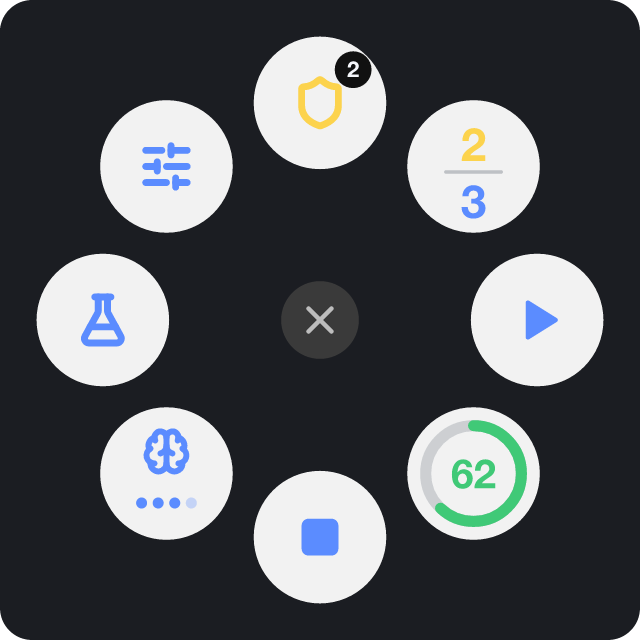
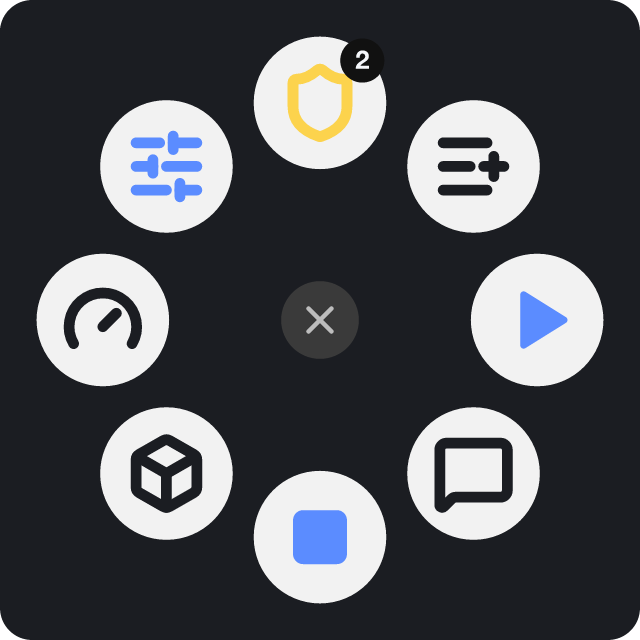
docs: the README and guide show Turnkey's default Actions Ring and its folders

diff --git a/docs/guide.md b/docs/guide.md
@@ -161,6 +161,25 @@ Under **Diagnostics** in Turnkey Settings:
 - **Queues**: T3 Code's thread list doesn't count queued messages, so the deck reads a shown thread's queue from one snapshot of that thread when its runs change (while it is queued, stopped, or had messages waiting), and after its own queue presses. A message removed or reordered in T3 Code while the thread's runs stay the same shows on the deck after the next change.
 - **Selection** follows the open time T3 Code records, which it keeps for 10 minutes: switching back to a thread you opened in the app a few minutes ago may not move the deck. A read-only pairing selects on the deck only.
 
+## Logitech
+
+Turnkey makes T3 Code an app in Logi Options+, with its own Actions Ring. Choose its **Default** profile to get Turnkey's ring; Options+ applies a default only when it first makes the app's profile, so choose **Default** again after an update changes it. Every action is also in Options+'s list, to place on any profile or console.
+
+The default ring, clockwise from the top:
+
+| Slot | What it does |
+| --- | --- |
+| Most urgent thread | The thread that needs you: an approval, a question, a run, a failure you haven't seen, or all done. Choose it to open that thread. Hover names it. |
+| Threads ▸ | **Waiting on you** (amber, counted) opens the most urgent; **Running threads** (blue, counted) opens the run that started last; **Stop all runs** stops every run. |
+| Continue | Sends "Continue" to the thread open in T3 Code, or opens it when it waits on you. Hover names it. |
+| Prompts ▸ | Fix tests, Diagnose, Explain and Commit, sent to the thread open in T3 Code. |
+| Stop run | Stops the open thread's run, else the one that started last. Hover names it. |
+| Models ▸ | The first five models of T3 Code's picker (favorites first), each by its provider's mark, named on hover; a check marks the open thread's. Then **Next effort** and **Next access**, which step through the thread's effort and access mode, named on hover; Ultrathink lights up the effort dots across T3 Code's spectrum. |
+| Limits ▸ | Up to five providers in T3 Code's Limits order, each a ring filling with its tightest limit (green, amber past 70%, red past 90%), its figure on hover. Choose one to refresh. |
+| Turnkey Settings | Opens the settings page: machines, pairing and haptics. |
+
+Ring faces are drawn small, so names and figures go in the hover label rather than on the face. An MX Master 4 buzzes when a thread needs approval, asks a question, finishes or fails; Turnkey Settings switches that off. Effort and Access also come as adjustments to scroll, for devices with a dial.
+
 ## Languages
 
 Turnkey shows keys, strips, settings pages and its action list in Stream Deck's language: English, German, Spanish, French, Japanese, Korean, Simplified Chinese and Traditional Chinese. Labels from T3 Code itself, such as **Settings → Sharing & access**, stay in English because T3 Code is in English. Thread titles, project and branch names, models, providers and T3 Code's own messages show as T3 Code sends them, and prompts the deck sends to agents stay in English.

diff --git a/README.md b/README.md
@@ -43,8 +43,8 @@ See every agent thread at a glance, approve and answer from a key, switch models
 
 <table>
 <tr>
-<td width="50%"><img src="docs/readme/ring.png" alt="Turnkey on the Logitech Actions Ring: the most urgent thread waiting on approval with two waiting, thread status, Continue, a limit at 62%, Stop run, Effort, Fix tests and Turnkey Settings" width="320"></td>
-<td width="50%"><b>And on Logitech</b><br>Put Turnkey on the Actions Ring of an MX mouse or keyboard: the thread that needs you, thread status, Continue, quick prompts and your own, Stop, access and effort you scroll, and your tightest limit, each as a live face. An MX Master 4 buzzes when a thread needs approval, asks a question, finishes or fails.</td>
+<td width="50%"><img src="docs/readme/ring.png" alt="Turnkey's default Actions Ring for T3 Code: the most urgent thread waiting on approval with two waiting, the Threads folder, Continue, the Prompts folder, Stop run, the Models folder, the Limits folder and Turnkey Settings" width="320"></td>
+<td width="50%"><b>And on Logitech</b><br>T3 Code gets its own Actions Ring on an MX mouse or keyboard: the thread that needs you, Continue and Stop, with folders for what waits and what runs, quick prompts, your favorite models with effort and access, and each provider's limits, every one a live face that names its thread or model on hover. An MX Master 4 buzzes when a thread needs approval, asks a question, finishes or fails.</td>
 </tr>
 </table>
 
@@ -79,7 +79,7 @@ You need Logi Options+ with an MX mouse or keyboard for the Actions Ring (haptic
 
 1. **Install.** Download `Turnkey_<version>.lplug4` from the [latest release](https://github.com/alejandrom2/turnkey/releases/latest) and open it to install it in Logi Options+.
 2. **Pair.** In Options+, Turnkey's actions show a **Pair with T3 Code** banner. It opens a Turnkey Settings page on this computer: paste a pair link from T3 Code's **Settings → Sharing & access** and press **Connect**.
-3. **Place actions.** Drag Turnkey's actions onto the Actions Ring. **Turnkey Settings** brings the settings page back later, to add machines, re-pair or switch haptics off.
+3. **Pick the ring.** In Options+, add T3 Code to the Actions Ring and choose the **Default** profile: Turnkey's ring, folders and all. Rearrange it, or drag Turnkey's actions onto any other profile. **Turnkey Settings** brings the settings page back later, to add machines, re-pair or switch haptics off.
 
 The [guide](docs/guide.md) covers every action, the settings window, profiles, extra access and known limits.
 
